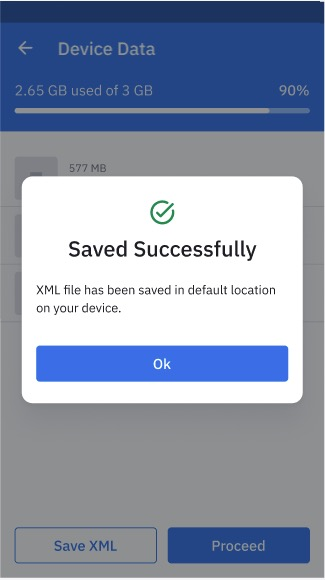
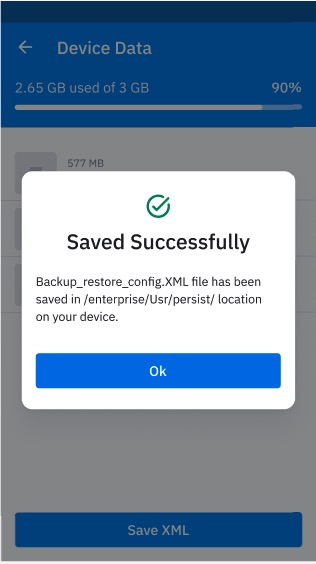
[TUT-80647] LifeGuard A-13 migration, upgrade updates, per eng, PO, eng, tweex

diff --git a/lifeguard/a13/index.html b/lifeguard/a13/index.html
@@ -252,7 +252,7 @@
 <h3 id="processoverview" class="anchor"><a class="heading-anchor" href="#processoverview"><span></span></a>Process Overview</h3>
 
 <ol>
-<li><strong><a href="tbd">Download Zebra Conversion Package</a></strong> (ZCP) <code>LINK REQUIRED</code> to admin host PC</li>
+<li><strong><a href="https://www.zebra.com/us/en/support-downloads/lifeguard-security.html">Download Zebra Conversion Package</a></strong> (ZCP) to admin host PC</li>
 
 <li><strong>IF NECESSARY</strong>: Remove password policies from devices to ensure that migration operations can be completed.†</li>
 
@@ -279,7 +279,7 @@
 
 <p>†† <i><font size="2" color="DimGrey">This step allows the device to return to normal use after its utility in the migration process.</font></i></p>
 
-<p><i class="fa fa-check-circle" style="color:#27AE60;"></i> <strong>The process continues automatically</strong>, rebooting several times before running Android 13 when completed successfully. <br><i class="fa fa-exclamation-circle" style="color:#FF0000;"></i> <strong>DO NOT INTERFERE WITH THE AUTOMATED MIGRATION PROCESS</strong>.<br>
+<p><i class="fa fa-check-circle" style="color:#27AE60;"></i> <strong>The process continues automatically</strong>, rebooting several times before running Android 13 when completed successfully. <br><i class="fa fa-exclamation-circle" style="color:#FF0000;"></i> <strong>USERS SHOULD BE INSTRUCTED NOT TO INTERFERE WITH THE AUTOMATED MIGRATION PROCESS</strong>.<br>
 <i class="fa fa-exclamation-triangle" style="color:#FFA500;"></i> Zebra STRONGLY recommends testing the migration process on a small group of devices from each persona before wider enterprise deployment.</p>
 
 <blockquote>
@@ -302,21 +302,23 @@
 
 <li><strong>Any data in</strong> <code>/enterprise</code> <strong>partition is preserved</strong> </li>
 
-<li><strong>Does NOT support Zebra's "Smart Profile" feature</strong></li>
+<li><strong>Does NOT support Zebra's "<a href="/stagenow/latest/smartprofile/">Smart Profile</a>" feature</strong></li>
 
-<li><strong>GMS data and settings are preserved; GMS apps are deleted</strong> <code>&lt;&lt; RAMA SUGGESTS REMOVING THIS</code></li>
+<li><strong>GMS app data and settings are preserved. GMS apps installed as part of A-13 might require an OTA update.</strong> </li>
 
 <li><strong>Expected availability: Late June, 2023</strong></li>
 </ul>
 
 <h3 id="limitations" class="anchor"><a class="heading-anchor" href="#limitations"><span></span></a>Limitations</h3>
 
+<p>application data and non-factory applications will not be configured to be backed up unless the Admin explicitly says to do so and that system configuration is AUTOMATICALLY backed up without any action (or choice) by the Admin.</p>
+
 <ul>
-<li><strong>All apps, data and settings not explicitly referenced in the "Golden Configuration" are deleted</strong>.</li>
+<li><strong>Android System settings are backed up by default</strong>; no action or file-selection is required.  </li>
+
+<li><strong>Apps, app data and settings MUST be explicitly referenced</strong> to be backed up in the "Golden Configuration".</li>
 
 <li><strong>Maximum backup size is approximately 3GB</strong>.</li>
-
-<li><strong>Failure to meet all preconditions (below) prior to upgrade could result in failure</strong> (possibly leaving device in an unusable state). <code>&lt;&lt; NEED APPROVAL FOR THIS WORDING</code></li>
 
 <li><strong>Devices with SD Cards formatted as <a href="https://source.android.com/devices/storage/adoptable">Adoptable Storage</a> are NOT supported</strong>.</li>
 
@@ -329,24 +331,28 @@
 <li><strong>If an automated upgrade fails and the device remains booted in the Zebra Conversion Package (interim OS), the upgrade to Android 13 must be completed manually</strong>; the interim OS is NOT suitable for production environments.</li>
 </ul>
 
+<blockquote>
+  <p><i class="fa fa-exclamation-circle" style="color:#FF0000;"></i> <strong>Failure to follow all steps and meet all preconditions</strong> (below) prior to beginning the upgrade process could halt the automated process (and require manual intervention to continue) <strong>and/or result in migration failure</strong> (possibly in data loss and/or temporarily leaving device in an unusable state). </p>
+</blockquote>
+
 <h3 id="preconditions" class="anchor"><a class="heading-anchor" href="#preconditions"><span></span></a>Preconditions</h3>
 
 <p>The following conditions must be met on devices before attempting to upgrade using this process.  </p>
 
-<ol>
-<li>Device must contain <strong>LifeGuard update NO LATER THAN FEB 2023</strong>  <code>&lt;&lt; REQUIRES CLARIFICATION</code> </li>
+<!-- 1. Device must contain **LifeGuard update NO LATER THAN FEB 2023**  `<< REQUIRES CLARIFICATION`  -->
 
+<ol>
 <li><b>Battery must have 30% charge</b> (or more) <b>or be connected to AC power</b></li>
 
-<li><strong>"Secure startup" PIN/password feature must be DISABLED</strong><br> 
+<li><strong>"Secure startup" PIN/password feature must be DISABLED</strong> to allow process to continue unattended<br> 
 To check: <strong>Settings &gt; Biometrics and security &gt; Secure startup</strong></li>
 
-<li><b>Screen lock must be DISABLED</b><br> 
+<li><b>Screen lock must be DISABLED</b> to allow process to continue unattended<br> 
 To check: <strong>Settings &gt; Security &gt; Screen Lock &gt; PIN/Password/Pattern/Swipe</strong></li>
 
-<li><strong>Password Profile must be DISABLED</strong><br> <strong>For EMM users</strong>, it also might be necessary to remove any password policy to ensure automated migration operations to complete. Such policies must be restored manually after migration completes.</li>
+<li><strong>Password Policy must be DISABLED</strong><br> <strong>For EMM users</strong>, it also might be necessary to remove any password policy to ensure automated migration operations to complete. Such policies must be restored manually after migration is completed.</li>
 
-<li><strong>SD Card must NOT be configured as <a href="https://source.android.com/devices/storage/adoptable">Adoptable Storage</a></strong> <i class="fa fa-external-link" style="color:#3498DB;"></i></li>
+<li><strong>SD Card must NOT be configured as <a href="https://source.android.com/devices/storage/adoptable">Adoptable Storage</a></strong><br> <i class="fa fa-external-link" style="color:#3498DB;"></i> <i class="fa fa-exclamation-circle" style="color:#FF0000;"></i> <strong>LOSS OF CUSTOMER-APP DATA COULD RESULT</strong></li>
 
 <li><strong>Device encryption type must be "FDE"</strong> <br> 
 To check: <strong>Settings &gt; About Phone &gt; SW Components &gt; Encryption Type &gt; block</strong></li>
@@ -384,7 +390,7 @@ To check: <strong>Settings &gt; About Phone &gt; SW Components &gt; Encryption T
 <li><strong>Files and/or folders</strong> created by the company or device users</li>
 </ul>
 
-<p><strong>2. <a href="TBD">Download the Zebra Conversion Package (ZCP)</a> <code>LINK TO COME</code>, push it to the root level of one such device and reboot</strong>. </p>
+<p><strong>2. <a href="https://www.zebra.com/us/en/support-downloads/lifeguard-security.html">Download Zebra Conversion Package</a></strong> (ZCP), <strong>use Zebra MX Power Manager</strong> (or the equivalent EMM function) to <strong>perform an "OS Upgrade" on the ZCP file and reboot device</strong>. </p>
 
 <p><strong>3. At boot, the device automatically runs File Guardian</strong>, a Zebra utility used to select apps and data to be backed up and restored to devices after migration. The resulting backup is called a "Golden Configuration." </p>
 
@@ -410,16 +416,21 @@ To check: <strong>Settings &gt; About Phone &gt; SW Components &gt; Encryption T
  <img alt="image" style="height:350px" src="begin_13.jpg">
  <br></p>
 
-<p><strong>e. When the message below is displayed, it's safe to proceed</strong> to the next step:
+<p><strong>e. OPTIONAL: Select additional tests</strong> as desired, then <strong>tap "Proceed"</strong> button:
+ <img alt="image" style="height:350px" src="begin_14a.jpg">
+ <br> </p>
+
+<p><strong>f. When the message below is displayed, it's safe to proceed</strong> to the next step.<br>
+ &nbsp;&nbsp;&nbsp;Notice the path indicating the <strong>backup file location</strong>: 
  <img alt="image" style="height:350px" src="begin_15.jpg">
  <br> </p>
 
-<p><strong>4. Get Golden Config from device at</strong> <code>/enterprise/usr/persist/backup_restore_config.xml</code> and store it on the administrative host PC. </p>
+<p><strong>4. Use adb to extract Golden Config from device at</strong> <code>/enterprise/Usr/persist/backup_restore_config.xml</code> and store it on the administrative host PC. </p>
 
 <p><strong>5. Use StageNow, OEMConfig, an EMM system to push the Golden Config to target device(s)</strong> in the same location: </p>
 
 <ul>
-<li><code>/enterprise/usr/persist/backup_restore_config.xml</code> </li>
+<li><code>/enterprise/Usr/persist/backup_restore_config.xml</code> </li>
 </ul>
 
 <p><strong>6. Download the desired Android 13 OS image</strong> appropriate for the device:</p>
@@ -430,24 +441,24 @@ To check: <strong>Settings &gt; About Phone &gt; SW Components &gt; Encryption T
 <li><a href="https://www.zebra.com/us/en/support-downloads/software/operating-system/tc21-operating-system-non-gms.html">TC21 devices without GMS</a></li>
 </ul>
 
-<p><i class="fa fa-exclamation-triangle" style="color:#FFA500;"></i> Reminder: <strong>This process is for <a href="https://supportcommunity.zebra.com/s/article/000022440?language=en_US">Zebra SDM660-platform devices</a> only</strong>. Other platforms can use the <a href="#a13quickupgradedataloss">Quick Upgrade process</a> with no fear of data loss. </p>
+<p><i class="fa fa-exclamation-triangle" style="color:#FFA500;"></i> Reminder: <strong>This process is for <a href="https://supportcommunity.zebra.com/s/article/000022440?language=en_US">Zebra SDM660-platform devices</a> with FDE only</strong>. Devices on most other platforms can use the <a href="#a13quickupgradedataloss">Quick Upgrade process</a> with no fear of data loss. </p>
 
-<p><strong>7. Push the Android 13 OS image to the device(s)</strong> using the following path and file name:<br></p>
+<p><strong>7. Push the Android 13 OS image to all device(s) (except Golden device)</strong> using the following path and file name:<br></p>
 
 <ul>
 <li><code>/data/tmp/public/FBE_FOTA.zip</code> <br>
 <i class="fa fa-exclamation-circle" style="color:#FF0000;"></i> <strong>The Android 13 image MUST be in this location with this file name</strong> or the process will <strong>FAIL</strong>. </li>
 </ul>
 
-<p><strong>8. Push the Zebra Conversion Package to target device(s)</strong> to be upgraded to Android 13. </p>
+<p><strong>8. Push the Zebra Conversion Package to all target device(s) (except Golden device)</strong> to be upgraded to Android 13. </p>
 
 <p><strong>9. Perform an "OS Upgrade" on the ZCP using Zebra MX Power Manager</strong> (or the equivalent EMM function). </p>
 
-<p><strong>:. Repeat the process for devices from other personas</strong>. </p>
+<p><strong>10. Repeat the process for devices from other personas</strong>. </p>
 
 <blockquote>
   <p><i class="fa fa-check-circle" style="color:#27AE60;"></i> <strong>The remainder of this process continues automatically</strong>, rebooting several times before running Android 13 when completed successfully. <br>
-  <i class="fa fa-exclamation-circle" style="color:#FF0000;"></i> <strong>DO NOT INTERFERE WITH THE AUTOMATED MIGRATION PROCESS</strong>.<br><br>
+  <i class="fa fa-exclamation-circle" style="color:#FF0000;"></i> <strong>USERS SHOULD BE INSTRUCTED NOT TO INTERFERE WITH THE AUTOMATED MIGRATION PROCESS</strong>.<br><br>
   <i class="fa fa-exclamation-triangle" style="color:#FFA500;"></i> Once migration is completed, <strong>restore policies removed to facilitate the process, if any</strong>.<br>
   <i class="fa fa-exclamation-triangle" style="color:#FFA500;"></i> Zebra STRONGLY recommends testing the migration process on a small group of devices from each persona before wider enterprise deployment.</p>
 </blockquote>
@@ -461,12 +472,21 @@ To check: <strong>Settings &gt; About Phone &gt; SW Components &gt; Encryption T
 <ol>
 <li><p><strong>If device is stuck at installation of Android 13 OS image</strong>, try rebooting. ZCP will attempt to install Android 13 OS image again.</p></li>
 
-<li><p><strong>If Step 1 fails, put device in recovery mode</strong>, &lt;&lt; <code>LINK TO INSTRUCTIONS FOR THIS</code> and use adb to push and install the Android 13 OS image. This should install and boot device into Android 13.</p></li>
+<li><p><strong>If Step 1 fails, put device in recovery mode</strong>. Instructions for entering recovery mode vary slighly by device. Some can be found in the <a href="../update">Device Update</a> guide elsewhere in these LifeGuard TechDocs. Use <a href="https://developer.android.com/tools/adb">Android Debug Bridge (adb)</a> <i class="fa fa-external-link" style="color:#3498DB;"></i> commands to push and install the Android 13 OS image. This should install and boot the device into Android 13. </p></li>
 
-<li><p><strong>If Android 13 boots but is unstable</strong> (apps repeatedly crash, etc.), contact Zebra for further assistance. <code>&lt;&lt; LINK OR FURTHER INFO REQUIRED HERE</code></p></li>
-
-<li><p>If Zebra is unable to provide any alternate paths to solve issues due to backup restore, we might finally have to reset the device on Android 13 and restage the device. <code>&lt;&lt; I SUGGEST REMOVING THIS STATEMENT</code></p></li>
+<li><p><strong>If Android 13 boots but is unstable</strong> (apps repeatedly crash, preserved data missing, etc.), <a href="https://www.zebra.com/us/en/about-zebra/contact-zebra/contact-tech-support.html">contact Zebra Support</a> for further assistance.</p></li>
 </ol>
+
+<!-- 
+Per Allan: 
+https://dl.google.com/android/repository/platform-tools-latest-windows.zip
+
+If you simply unzip this to some suitable folder (e.g, c:\adb) on the PC and open a command shell to that folder, you should be able to use ADB commands on that PC without much muss or fuss.
+
+The only uncertainty is device-specific drivers which is always an open question.  But I think most (if not all) of our devices may be using standard drivers now.
+
+So, it MAY be the case that it “just works”.  I think it has “just worked” using the above approach for every device I have tried in the last several years.
+ -->
 
 <hr>
 
